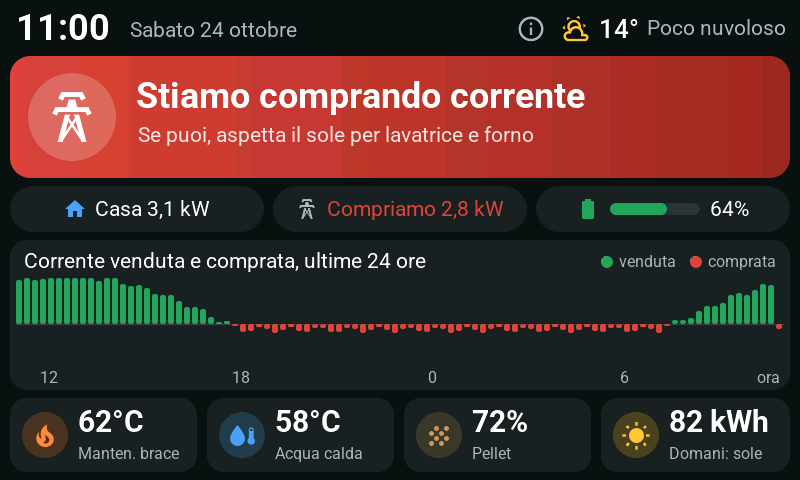
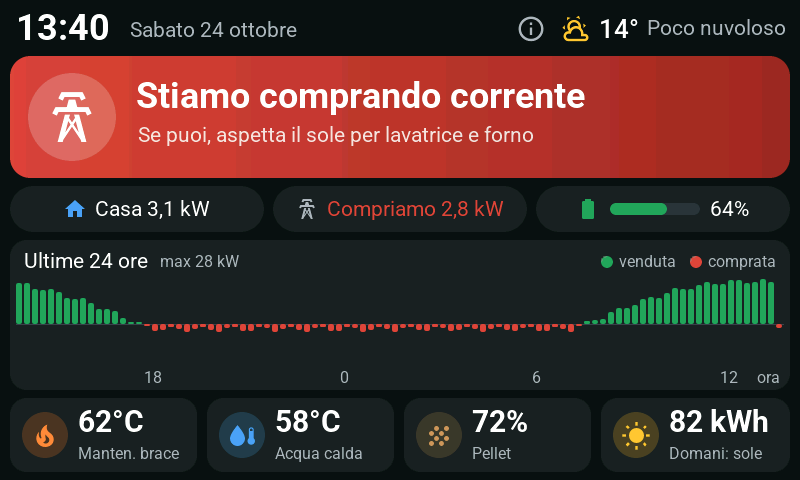
feat: auto-scaled 24h chart with max label (small exchanges were invisible)
Claude-Session: https://claude.ai/code/session_018yhPoiFCoFeAhkr3QMpMdf

diff --git a/README.md b/README.md
@@ -25,7 +25,7 @@ Waveshare ESP32-S3-Touch-LCD-7: 800x480 RGB panel driven with `rpi_dpi_rgb`, 8 M
 - **Semaforo** — green above `${green_export_w}` (2500 W) exported, yellow in between, red above `${red_import_w}` (800 W) imported. Both are calibration knobs in `ui.yaml`; grid values are averaged over 30 s so the colour does not flicker.
   Yellow is not one message: it reads `batt_dis_w` and `batt_chg_w` (> 200 W) and says "Andiamo a batteria" while the battery is discharging, "La batteria si sta caricando" while it is charging (green is coming), "Prendiamo un po' dalla rete" for a small grid import above 50 W, and "Il sole basta per la casa" when the sun covers the house.
 - **Pills** — `Rete` (grid, or "Rete a zero"), `Casa` (house load) and battery percentage.
-- **Last 24 hours chart** — scrolling window, newest on the right ("ora"): one bar per 15 minutes, green upward for exported energy, red downward for imported, scaled to `chart_full_scale_w`; hour labels move with the bars. Saved to flash once per completed slot (under 1 KB, ~96 writes a day) and restored after a reboot.
+- **Last 24 hours chart** — scrolling window, newest on the right ("ora"): one bar per 15 minutes, green upward for exported energy, red downward for imported, auto-scaled to the largest bar of the window (at least 1 kW, shown as "max N kW"); hour labels move with the bars. Saved to flash once per completed slot (under 1 KB, ~96 writes a day) and restored after a reboot.
 - **Info button** — the (i) next to the weather opens a short "how to read it" popup.
 - **Forecast popup** — tapping the weather opens 8 hourly forecasts (every 2 hours) and 5 daily ones. The strings come from a Home Assistant template sensor, see below.
 - **Weather** — current conditions and temperature from `weather.home`; the forecast arrives pre-formatted from HA because the display cannot call services.
